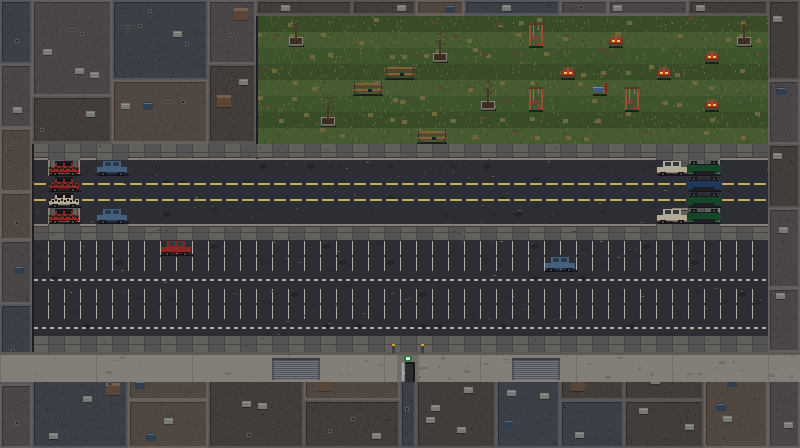
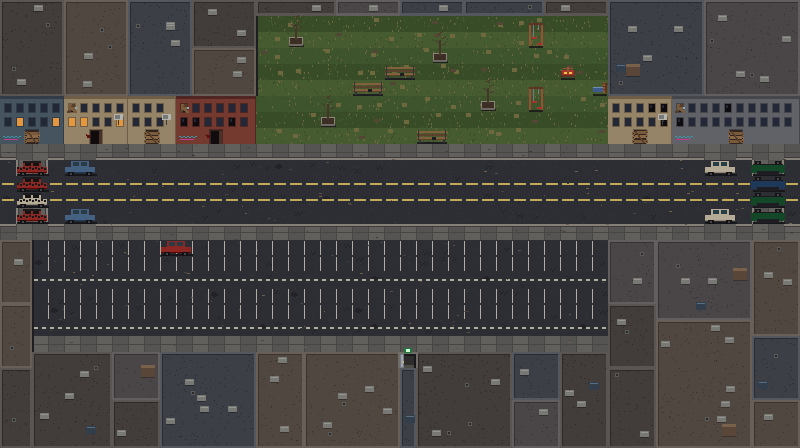
fix: corregge la prospettiva dietro il centro commerciale

diff --git a/lib/core/levels/tutorial/mall_north_street.dart b/lib/core/levels/tutorial/mall_north_street.dart
@@ -3,37 +3,38 @@
 /// Reached only through the hypermarket ground floor's new fire exit (see
 /// mall.dart): the loading side of the building, a street closed off on
 /// its own to the rest of the north district. The fire door stands in the
-/// blank rear wall along the bottom, two rows of parking stalls in front of
-/// it, a wrecked-car pile-up blocks the road east and west a little
-/// further along, and beyond it, off to the right rather than square in
-/// front of the hypermarket, a park has gone to seed around its playground.
+/// southern roofline, two rows of parking stalls in front of it, a
+/// wrecked-car pile-up blocks the road as it continues off-map east and
+/// west, and beyond it a park has gone to seed between the north-side
+/// palazzi. The palazzi on the right also narrow the car park and keep that
+/// part of the block inaccessible.
 /// New glyphs, on top of the outdoor legend in street.dart: `g` grass, floor;
 /// `p` broken playground equipment, an obstacle; `j` the fire door in the
 /// rear wall, stepped onto to go back inside, floor.
 // mall-north-rows-start
 const List<String> mallNorthStreetRows = <String>[
   'BBBBBBBBBBBBBBBBBBBBBBBBBBBBBBBBBBBBBBBBBBBBBBBBBB',
-  'BBBBBBBBBBBBBBBBggggggggggggggggggggggggggggggggBB',
-  'BBBBBBBBBBBBBBBBggAggggggggggggggpggggpgggggggAgBB',
-  'BBBBBBBBBBBBBBBBgggggggggggAggggggggggggggggpgggBB',
-  'BBBBBBBBBBBBBBBBggggggggnngggggggggpgggggpggggggBB',
-  'BBBBBBBBBBBBBBBBggggggnngggggggggggggpggggggggggBB',
-  'BBBBBBBBBBBBBBBBggggggggggggggAggpgggggpggggpgggBB',
-  'BBBBBBBBBBBBBBBBggggAgggggggggggggggggggggggggggBB',
-  'BBBBBBBBBBBBBBBBggggggggggnnggggggggggggggggggggBB',
-  'BB==============================================BB',
-  'BB.XX.CC.................................CCUU...BB',
-  'BB-XX--------------------------------------UU---BB',
-  'BB-XX--------------------------------------UU---BB',
-  'BB.XX.CC.................................CCUU...BB',
-  'BB==============================================BB',
-  'BBLLLLLLLLCCLLLLLLLLLLLLLLLLLLLLLLLLLLLLLLLLLLLLBB',
-  'BBLLLLLLLLLLLLLLLLLLLLLLLLLLLLLLLLCCLLLLLLLLLLLLBB',
-  'BBLLLLLLLLLLLLLLLLLLLLLLLLLLLLLLLLLLLLLLLLLLLLLLBB',
-  'BBLLLLLLLLLLLLLwLLLLLLLLLLLLLLLLLLLLLLLLLLLLLLLLBB',
-  'BBLLLLLLLLLLLLLLLLLLLLLLLLLLLLLLLLLLLLLLLLLLLLLLBB',
-  'BBLLLLLLLLLLLLLLLLLLLLLLLLLLLLLLLLLLLLLLLLLLLLLLBB',
-  'BB==============================================BB',
+  'BBBBBBBBBBBBBBBBggggggggggggggggggggggBBBBBBBBBBBB',
+  'BBBBBBBBBBBBBBBBggAggggggggggggggpggggBBBBBBBBBBBB',
+  'BBBBBBBBBBBBBBBBgggggggggggAggggggggggBBBBBBBBBBBB',
+  'BBBBBBBBBBBBBBBBggggggggnngggggggggpggBBBBBBBBBBBB',
+  'BBBBBBBBBBBBBBBBggggggnngggggggggggggpBBBBBBBBBBBB',
+  'HHHHHHHHHHHHHHHHggggggggggggggAggpggggHHHHHHHHHHHH',
+  'HHHHHHHHHHHHHHHHggggAgggggggggggggggggHHHHHHHHHHHH',
+  'HHHHHHHHHHHHHHHHggggggggggnnggggggggggHHHHHHHHHHHH',
+  '==================================================',
+  '.XX.CC......................................CC.UU.',
+  '-XX--------------------------------------------UU-',
+  '-XX--------------------------------------------UU-',
+  '.XX.CC......................................CC.UU.',
+  '==================================================',
+  'BBLLLLLLLLCCLLLLLLLLLLLLLLLLLLLLLLLLLLBBBBBBBBBBBB',
+  'BBLLLLLLLLLLLLLLLLLLLLLLLLLLLLLLLLLLLLBBBBBBBBBBBB',
+  'BBLLLLLLLLLLLLLLLLLLLLLLLLLLLLLLLLLLLLBBBBBBBBBBBB',
+  'BBLLLLLLLLLLLLLwLLLLLLLLLLLLLLLLLLLLLLBBBBBBBBBBBB',
+  'BBLLLLLLLLLLLLLLLLLLLLLLLLLLLLLLLLLLLLBBBBBBBBBBBB',
+  'BBLLLLLLLLLLLLLLLLLLLLLLLLLLLLLLLLLLLLBBBBBBBBBBBB',
+  'BB====================================BBBBBBBBBBBB',
   'BBBBBBBBBBBBBBBBBBBBBBBBBjBBBBBBBBBBBBBBBBBBBBBBBB',
   'BBBBBBBBBBBBBBBBBBBBBBBBBBBBBBBBBBBBBBBBBBBBBBBBBB',
   'BBBBBBBBBBBBBBBBBBBBBBBBBBBBBBBBBBBBBBBBBBBBBBBBBB',

diff --git a/test/tutorial_level_test.dart b/test/tutorial_level_test.dart
@@ -19,6 +19,42 @@ void main() {
     }
   });
 
+  test('the street behind the mall keeps the outdoor perspective', () {
+    final width = mallNorthStreetRows.first.length;
+    final roadRows = mallNorthStreetRows.where((row) => row.contains('-'));
+    expect(
+      roadRows.every((row) => row.startsWith('-') && row.endsWith('-')),
+      isTrue,
+      reason: 'the road continues past both edges of the map',
+    );
+    expect(
+      roadRows.every((row) => row.contains('XX') && row.contains('UU')),
+      isTrue,
+      reason: 'wrecks block both off-map directions',
+    );
+
+    final facadeRows = mallNorthStreetRows
+        .takeWhile((row) => !row.contains('-'))
+        .where((row) => row.contains('H'));
+    expect(facadeRows, isNotEmpty, reason: 'north-side palazzi face south');
+
+    final exitRow = mallNorthStreetRows.indexWhere((row) => row.contains('j'));
+    expect(
+      mallNorthStreetRows.skip(exitRow).every((row) => !row.contains('H')),
+      isTrue,
+      reason: 'the southern building shows only its roof and exit',
+    );
+
+    final lastParkingColumn = mallNorthStreetRows
+        .map((row) => row.lastIndexOf('L'))
+        .reduce((left, right) => left > right ? left : right);
+    expect(
+      lastParkingColumn,
+      lessThan(width - 10),
+      reason: 'right-side palazzi narrow the car park',
+    );
+  });
+
   test('the player starts unarmed with no bullets', () {
     final ammo = createTutorialWorld().player.component<AmmoComponent>();
     expect(ammo.hasGun, isFalse);

diff --git a/tools/build_street_level.py b/tools/build_street_level.py
@@ -889,39 +889,28 @@ def paint_back_passage(d, level):
             rect(d, px + 3, py + 10, 10, 2, (66, 62, 58))
 
 
-def paint_mall_back_door(d, rng, level):
-    """The back of the hypermarket along the bottom of its car park: a
-    blank concrete wall with two shuttered loading bays, and the fire exit
-    `j` standing open in it, the way back inside."""
+def paint_mall_back_door(d, level):
+    """The hypermarket fire exit `j`, seen from behind.
+
+    Like the barracks' back passage, only the opening is visible: the
+    building is south of the camera, so painting its north facade here
+    would reverse the perspective used by every other outdoor map.
+    """
     doors = [(x, y) for y in range(level.height) for x in range(level.width)
              if level.at(x, y) == "j"]
     if not doors:
         return
     dx, dy = doors[0]
-    px, py, w = dx * TILE, dy * TILE, level.width * TILE
-    rect(d, 0, py, w, 30, (130, 126, 120))  # the rear wall
-    rect(d, 0, py, w, 3, (92, 88, 84))  # its coping
-    for jx in range(0, w, 96):  # panel joints
-        rect(d, jx, py + 3, 1, 27, (112, 108, 102))
-    for _ in range(50):  # rain streaks and grime
-        rect(d, rng.randrange(w - 6), py + 4 + rng.randrange(22),
-             rng.randint(2, 6), rng.randint(1, 3), (114, 110, 102))
-    for bx in (px - 8 * TILE, px + 7 * TILE):  # loading bays, shutters down
-        rect(d, bx, py + 6, 48, 2, (60, 60, 64))
-        rect(d, bx, py + 8, 48, 20, (80, 80, 84))
-        for sy in range(py + 9, py + 28, 2):
-            rect(d, bx + 2, sy, 44, 1, (118, 122, 130))
-    rect(d, px - 3, py + 3, 22, 27, (112, 108, 102))  # the door surround
-    rect(d, px + 4, py + 4, 8, 5, (30, 120, 60))  # the sign over it
-    rect(d, px + 6, py + 5, 4, 3, (210, 250, 220))
-    rect(d, px + 1, py + 10, 14, 20, (24, 24, 26))  # the opening
-    rect(d, px + 3, py + 12, 10, 18, (46, 44, 44))
-    rect(d, px + 1, py + 10, 4, 20, (118, 122, 130))  # the leaf swung open
-    rect(d, px + 2, py + 11, 2, 18, (158, 162, 170))
-    rect(d, px + 4, py + 20, 1, 2, (220, 190, 90))  # its push bar
-    for bx in (px - 8, px + 21):  # bollards on the tarmac
-        rect(d, bx, py - 7, 3, 8, (62, 62, 66))
-        rect(d, bx, py - 8, 3, 2, (210, 170, 40))
+    px, py = dx * TILE, dy * TILE
+    rect(d, px - 2, py, 20, TILE, (112, 108, 102))  # concrete reveal
+    rect(d, px, py + 2, TILE, 14, (24, 24, 26))  # dark passage
+    rect(d, px + 2, py + 4, 12, 12, (46, 44, 44))
+    rect(d, px + 2, py + 13, 12, 3, (80, 76, 70))  # threshold
+    rect(d, px, py + 2, 4, 14, (118, 122, 130))  # open leaf
+    rect(d, px + 1, py + 3, 2, 12, (158, 162, 170))
+    rect(d, px + 3, py + 9, 1, 2, (220, 190, 90))  # push bar
+    rect(d, px + 4, py - 4, 8, 5, (30, 120, 60))  # exit sign
+    rect(d, px + 6, py - 3, 4, 3, (210, 250, 220))
 
 
 # ------------------------------------------------------------ hypermarket
@@ -2173,7 +2162,7 @@ def bake(level: Level, rng: random.Random, output: str) -> None:
     paint_shipyard(d, rng, level)
     paint_hospital(d, rng, level)
     paint_back_passage(d, level)
-    paint_mall_back_door(d, rng, level)
+    paint_mall_back_door(d, level)
 
     car_colors = [(140, 40, 36), (70, 96, 130), (180, 170, 150), (60, 110, 80)]
     color_index = 0
